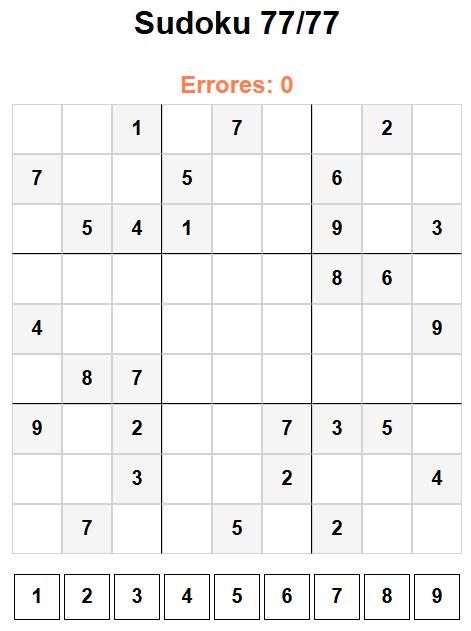
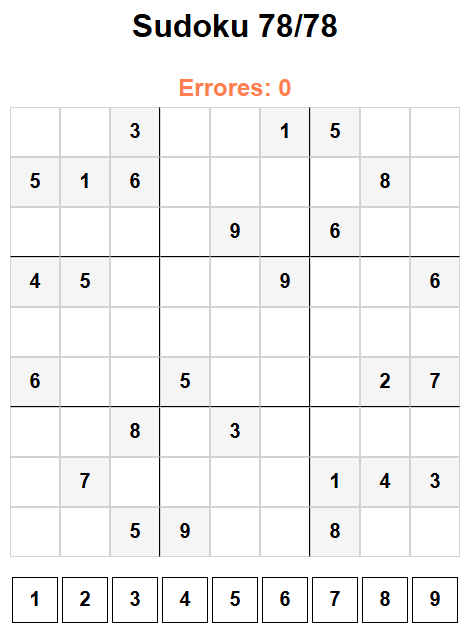
Merge pull request #93 from JDGonzal/feat/20260621
Feat: sudoku-javascript. 20260621

Pull request: Feat: sudoku-javascript. 20260621
- 20260621

#20260621

diff --git a/board.js b/board.js
@@ -153,6 +153,8 @@ const board = [
     '----38--7', '--4----1-', '9--8-----', '3----64--'],
   ['--1-7--2-', '7--5--6--', '-541--9-3', '------86-', '4-------9',
     '-87------', '9-2--735-', '--3--2--4', '-7--5-2--'],
+  ['--3--15--', '516----8-', '----9-6--', '45---9--6', '---------',
+    '6--5---27', '--8-3----', '-7----143', '--59--8--'],
 ];
 
 export default function getBoard (WHICH) {

diff --git a/sudoku.js b/sudoku.js
@@ -10,7 +10,7 @@ let posExample = '';
 
 let errors = 0;
 
-const WHICH = 76;
+const WHICH = 77;
 let currentBoardIndex = WHICH; // El índice del tablero que se va a resolver
 
 let board = [];